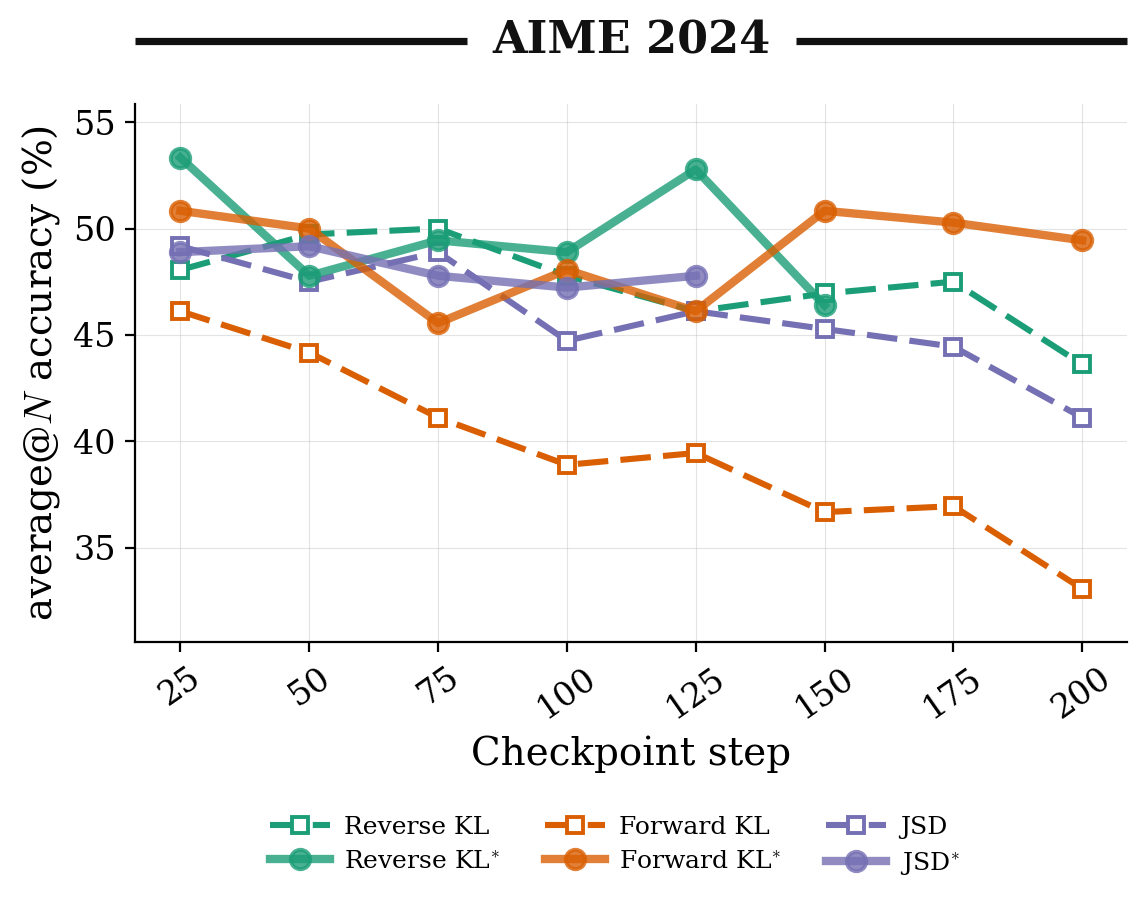
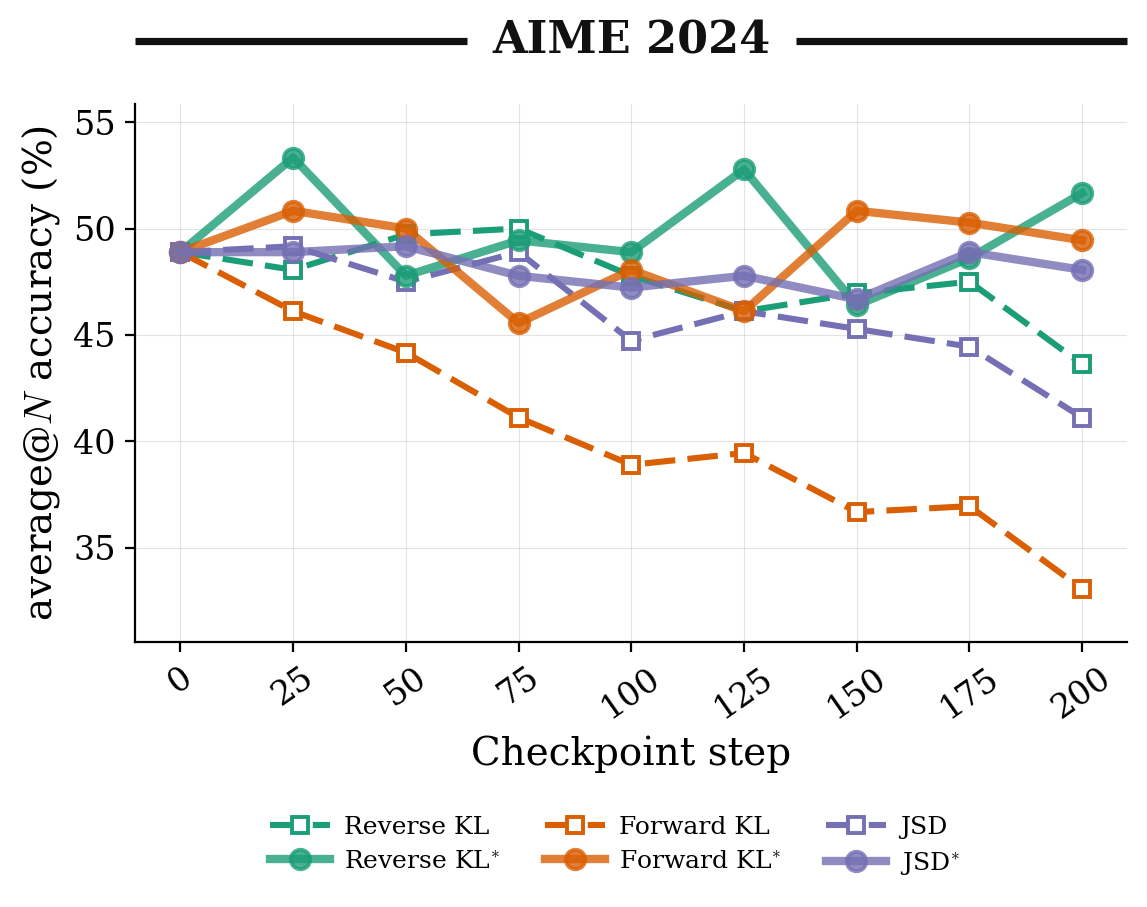
add eval aime25 script

diff --git a/plot.py b/plot.py
@@ -22,6 +22,10 @@ OUT_DIR = RESULTS_DIR / "plots"
 
 METRIC = "average_at_n_pct"
 
+BASE_MODEL_RESULT_FILES = {
+    "eval_results_aime24_Qwen3-1.7B_thinking_temp1.0_valn12.json",
+}
+
 DATASET_TITLE = {
     "aime24": "AIME 2024",
     "aime25": "AIME 2025",
@@ -114,6 +118,10 @@ def _extract_divergence(path: Path) -> str:
     raise ValueError(f"could not infer divergence type from {path}")
 
 
+def _is_base_model_result(path: Path) -> bool:
+    return path.name in BASE_MODEL_RESULT_FILES
+
+
 def _collect_results(results_dir: Path) -> pd.DataFrame:
     rows = []
     recovered = []
@@ -124,15 +132,27 @@ def _collect_results(results_dir: Path) -> pd.DataFrame:
             data, did_recover = _load_json(path)
             dataset = data["dataset"]
             value = float(data[METRIC])
-            rows.append(
-                {
-                    "dataset": dataset,
-                    "divergence": _extract_divergence(path),
-                    "step": _extract_step(path),
-                    METRIC: value,
-                    "path": str(path),
-                }
-            )
+            if _is_base_model_result(path):
+                for divergence in DIVERGENCE_ORDER:
+                    rows.append(
+                        {
+                            "dataset": dataset,
+                            "divergence": divergence,
+                            "step": 0,
+                            METRIC: value,
+                            "path": str(path),
+                        }
+                    )
+            else:
+                rows.append(
+                    {
+                        "dataset": dataset,
+                        "divergence": _extract_divergence(path),
+                        "step": _extract_step(path),
+                        METRIC: value,
+                        "path": str(path),
+                    }
+                )
             if did_recover:
                 recovered.append(path)
         except (json.JSONDecodeError, KeyError, TypeError, ValueError) as exc: